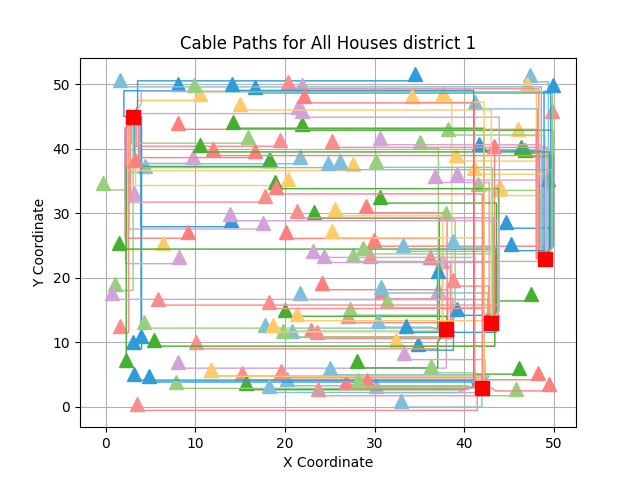
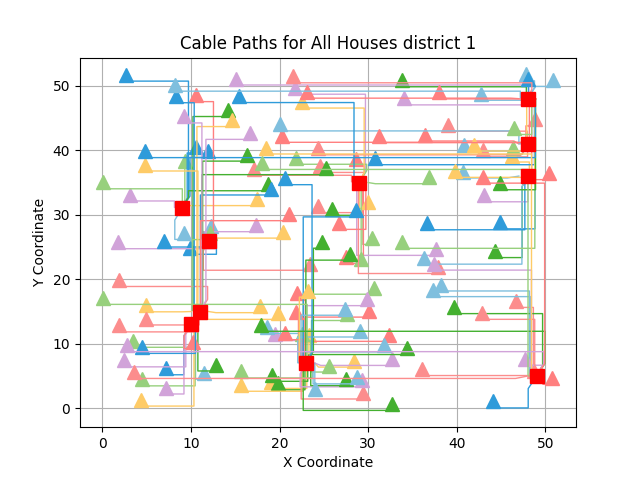
first solution exercise 6

diff --git a/code/algorithms/advanced_6.py b/code/algorithms/advanced_6.py
@@ -4,11 +4,13 @@ import copy
 class Advanced_6:
     def __init__(self, district):
         self.district = copy.deepcopy(district)
+        self.district.remove_batteries()
         self.battery_data = {
             'PowerStar': {'capacity': 450, 'price': 900},
             'Imerse-II': {'capacity': 900, 'price': 1350},
             'Imerse-III': {'capacity': 1800, 'price': 1800}
         }
+        self.battery_costs = 0
 
     def random_battery_list(self, needed_capacity):
         """
@@ -17,7 +19,6 @@ class Advanced_6:
 
         battery_dict = {}
         capacity = 0
-        price = 0
 
         i = 0
 
@@ -29,7 +30,36 @@ class Advanced_6:
             random_price = self.battery_data[random_name]['price']
 
             capacity += random_capacity
-            price += random_price
+            self.battery_costs += random_price
             battery_dict[f"{i}: {random_name}"] = {'capacity': random_capacity, 'price': random_price}
         
-        return battery_dict, capacity, price
+        return battery_dict
+
+    def add_batteries_to_district(self, battery_dict):
+        """
+        Places the given batteries at random places on the district where there are no other houses or batteries
+        """
+
+        max_attempts = 100
+
+        for battery in battery_dict.values():
+            capacity = battery['capacity']
+
+            for _ in range(max_attempts):
+                x, y = random.randint(0, 50), random.randint(0, 50)
+
+                # Check for existing houses or batteries at the coordinates
+                if any(house.x == x and house.y == y for house in self.district.get_houses()) or \
+                   any(bat.x == x and bat.y == y for bat in self.district.get_batteries()):
+                    continue
+
+                # If no house or battery at the coordinates, add the battery and break out of the loop
+                self.district.add_battery(x, y, capacity)
+                break
+            
+    def run(self, needed_capacity):
+        batteries = self.random_battery_list(needed_capacity)
+        self.add_batteries_to_district(batteries)
+
+        for battery in self.district.get_batteries():
+            print(battery)

diff --git a/code/classes/district.py b/code/classes/district.py
@@ -58,6 +58,18 @@ class District:
 
         return battery_list
     
+    def remove_batteries(self):
+        """
+        Clears self.battery_list
+        """
+        self.batteries.clear()
+
+    def add_battery(self, x, y, capacity):
+        """
+        Adds battery to self.battery_list
+        """
+        self.batteries.append(Battery(x, y, capacity))
+    
     def calculate_distance(point1, point2):
         """
         Calculates the distance between Two points on an x,y plane By adding the x and y difference.
@@ -68,7 +80,7 @@ class District:
         """
         return abs(point1.x - point2.x) + abs(point1.y - point2.y)
 
-    def calculate_shared_costs(self):
+    def calculate_shared_costs(self, battery_costs = [5000, 5000, 5000, 5000, 5000]):
         """
         calculates the total cost of laying the cables, but makes sure to account for the fact
         that houses can share a cable, so it subtracts the cables already laying there.
@@ -96,10 +108,14 @@ class District:
 
                     cable_storedval = cable
         self.shared_costs = 9*number_of_duplicates
+        
+        for battery in battery_costs:
+            self.shared_costs += battery
+        
         return int(self.shared_costs)
     
 
-    def calculate_own_costs(self):
+    def calculate_own_costs(self, battery_costs = [5000, 5000, 5000, 5000, 5000]):
         """
         calculates the cost of laying the cables in the district and returns it.
 
@@ -115,6 +131,9 @@ class District:
         for house in self.houses:
             # Formula, since every cable is 9 dollars.
             self.own_costs += house.count_cables() * 9
+
+        for battery in battery_costs:
+            self.own_costs += battery
 
         return self.own_costs
 

diff --git a/main.py b/main.py
@@ -72,5 +72,5 @@ if __name__ == "__main__":
     if choice_list[0] == 5:
         random_solution_district = rtg.RandomGreedy(districts[choice_list[1] - 1])
         random_solution_district.greedy_solution()
-        sc_1 = sc.SimulatedAnnealing(random_solution_district.district, own_costs = False)
+        sc_1 = sc.SimulatedAnnealing(random_solution_district.district, own_costs = True)
         sc_1.run(5000, True)
